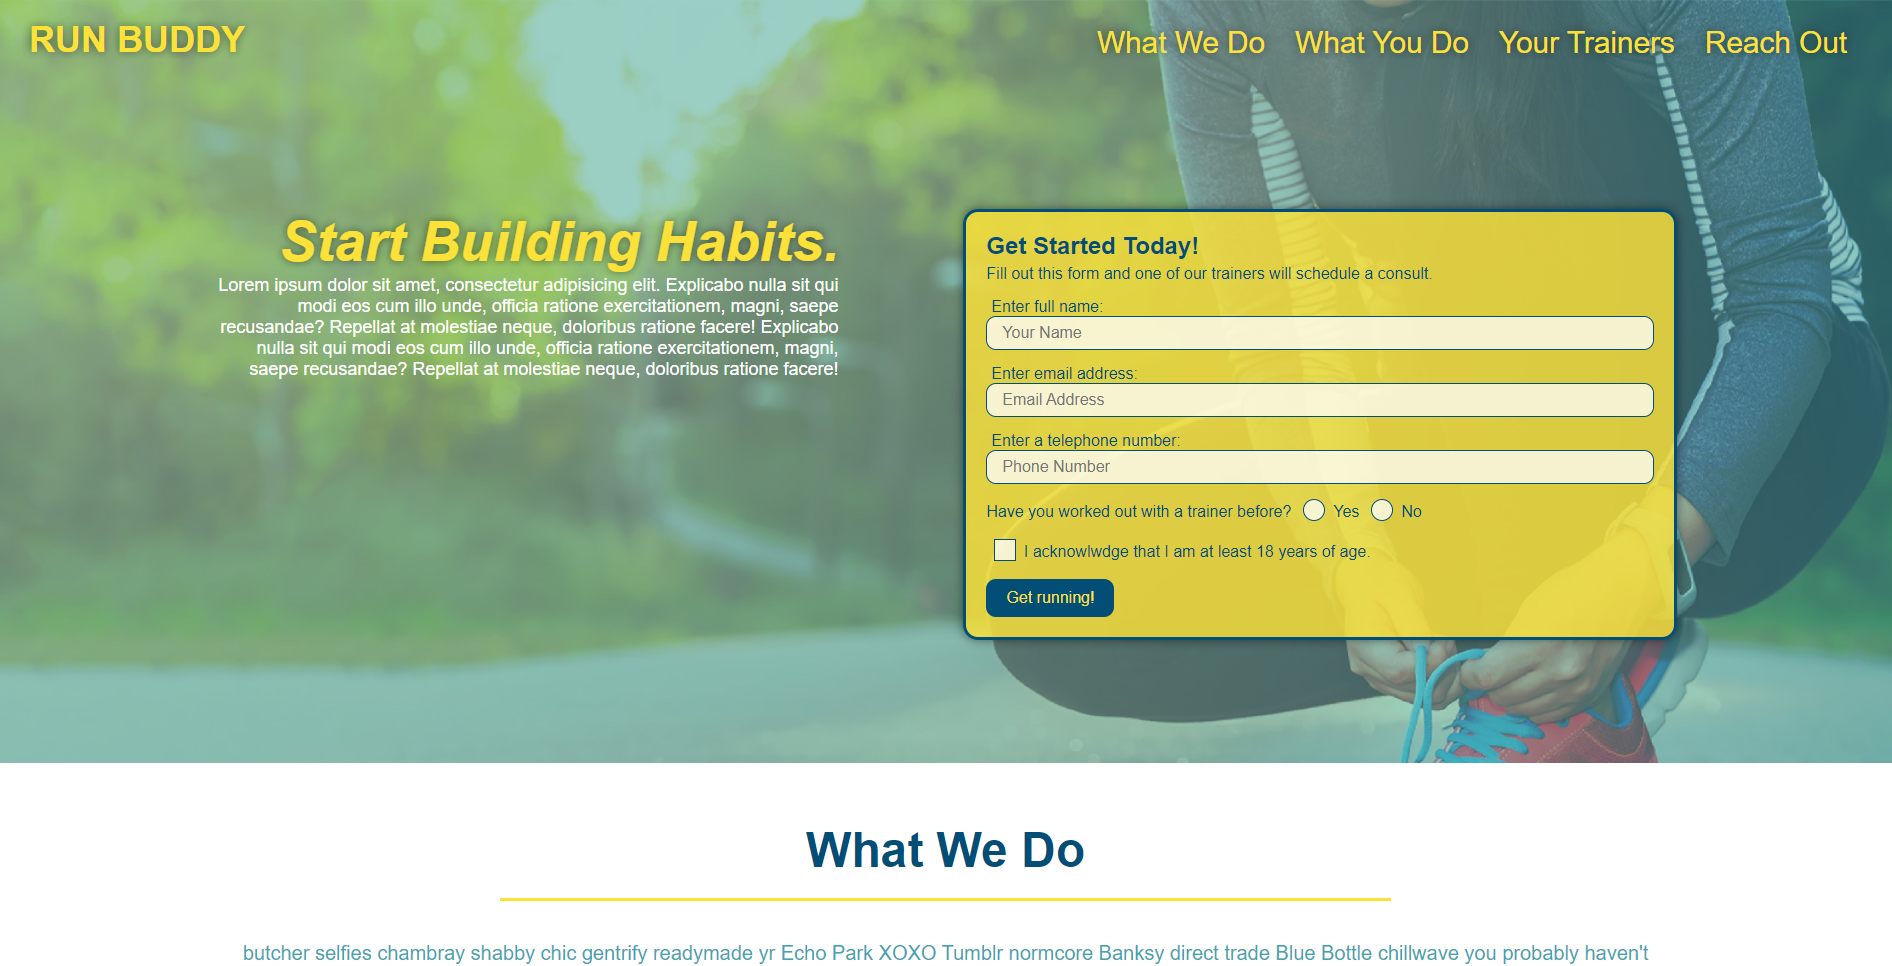
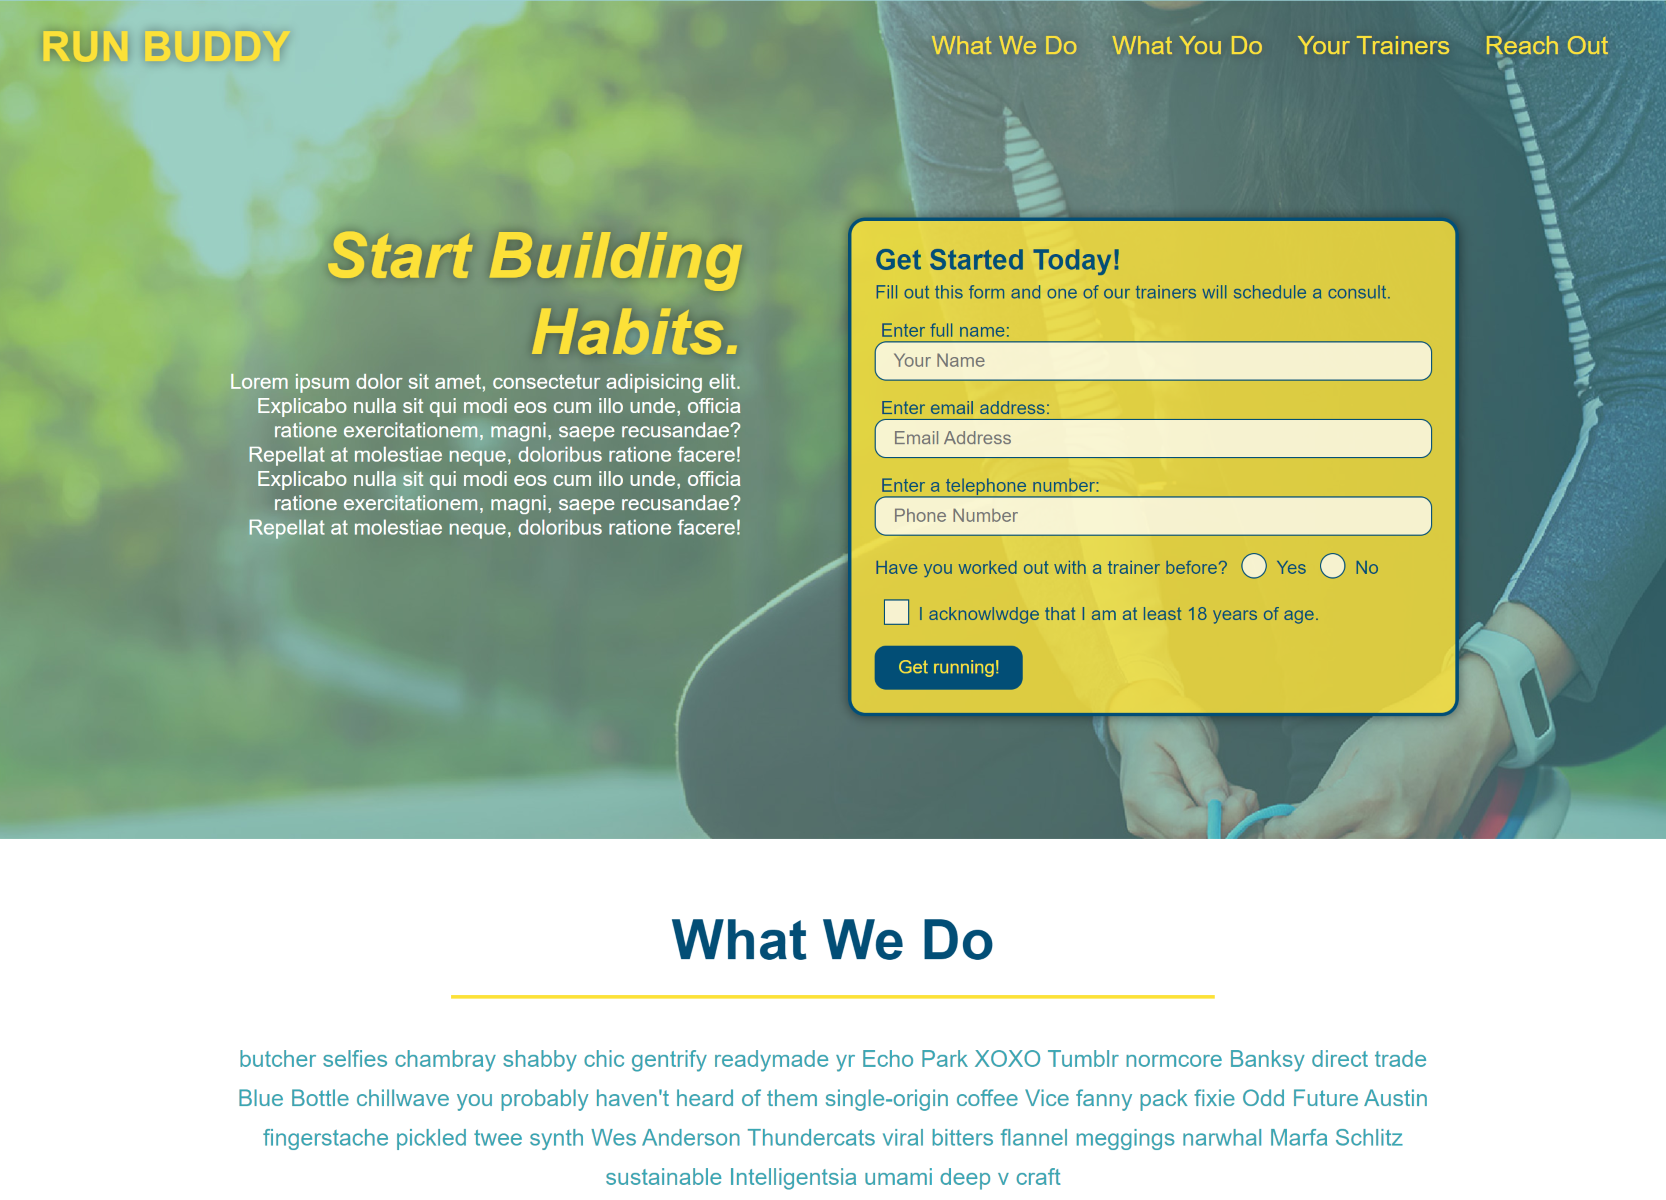
work block stacked

diff --git a/assets/css/style.css b/assets/css/style.css
@@ -33,6 +33,7 @@ header {
     align-items: center;
     position: sticky;
     top: 0;
+    z-index: 9999;
 }
 
 header a {
@@ -97,14 +98,14 @@ section {
 
 .section-h2 {
     font-size: 34px;
-    flex: 1 25%;
-    padding: 20px;
-    text-align: center;
+    flex: 1 20%;
+    padding: 30px;
+    text-align: right;
     text-shadow: 0 0 3px var(--s-color-50t)
 }
 
 .right-section {
-    flex: 3 75%;
+    flex: 3 80%;
     padding: 20px;
     border-left: 3px solid var(--s-color);
 }
@@ -142,7 +143,7 @@ section {
 /*-----ABOUT ME SECTION STYLE ELEMENTS-----*/
 
 .about-text p {
-    padding: 15px 15px 15px 30px;
+    padding: 10px 20px;
     font-size: 24px;
     line-height: 1.3;
     text-align: justify;
@@ -151,39 +152,44 @@ section {
 
 /*-----WORK SECTION STYLE ELEMENTS-----*/
 
+.work {
+    display: flex;
+    padding: 10px 20px; 
+    text-decoration: none;
+}
+
 .main-work {
     flex: 1 100%;
-    display: flex;
-    padding: 15px 15px 15px 30px;   
-}
-
-/*-----NOTE: Found out about object-fit here: https://stackoverflow.com/questions/3029422/how-do-i-auto-resize-an-image-to-fit-a-div-container-----*/
-.img-preview {
-    /*background-image: url("../img/work-example1.PNG");
-    background-size: cover;
-    height: 350px;*/
-    flex: 100%;
-    position: relative;
-    border: 10px solid var(--p-color);
-    overflow: hidden;
-}
-
-.img-preview img {
-    width: 100%;
-    height: min-content;
-    overflow: hidden;
-}
-
-.img-text {
-    position: absolute;
-    bottom: 50px;
 }
 
 .other-work {
     flex: 1 50%;
 }
 
-.main-work img {
-    max-height: 300px;
-    margin: 0 auto;
+/*-----NOTE: Found out about object-fit here: https://stackoverflow.com/questions/3029422/how-do-i-auto-resize-an-image-to-fit-a-div-container-----*/
+.img-preview {
+    flex: 100%;
+    position: relative;
+    border: 5px solid var(--p-color);
+    overflow: hidden;
+    max-height: 400px;
+    
+}
+
+.small-img-preview {
+    max-height: 180px;
+}
+
+.img-preview img {
+    width: 100%;
+    object-fit: cover;
+    object-position: top;
+    opacity: 50%;
+}    
+
+.img-text {
+    position: absolute;
+    bottom: 30px;
+    padding: 10px 10px 10px 20px;
+    background: var(--p-color);
 }

diff --git a/index.html b/index.html
@@ -55,12 +55,31 @@
     <!--WORK SECTION-->
     <section id="work" class="gen-flexbox wide95">
         <h2 class="section-h2">WORK</h2>
-        <div class="right-section work-example">
-            <a href="https://jamwalab.github.io/aj-portfolio/" target="_blank" class="main-work">
+        <div class="right-section gen-flexbox">
+            <a href="https://jamwalab.github.io/aj-portfolio/" target="_blank" class="work main-work">
                 <div class="img-preview">
                     <img src="./assets/img/work-example1.PNG" alt=""/>
                     <div class="img-text">
-                        <h3>Main</h3>
+                        <h3>Run Buddy</h3>
+                        <p>HTML / CSS</p>
+                    </div>
+                </div>
+            </a>
+            <a href="https://jamwalab.github.io/aj-portfolio/" target="_blank" class="work other-work">
+                <div class="img-preview small-img-preview">
+                    <img src="./assets/img/work-example1.PNG" alt=""/>
+                    <div class="img-text">
+                        <h3>Run Buddy</h3>
+                        <p>HTML / CSS</p>
+                    </div>
+                </div>
+            </a>
+            <a href="https://jamwalab.github.io/aj-portfolio/" target="_blank" class="work other-work">
+                <div class="img-preview small-img-preview">
+                    <img src="./assets/img/work-example1.PNG" alt=""/>
+                    <div class="img-text">
+                        <h3>Run Buddy</h3>
+                        <p>HTML / CSS</p>
                     </div>
                 </div>
             </a>
